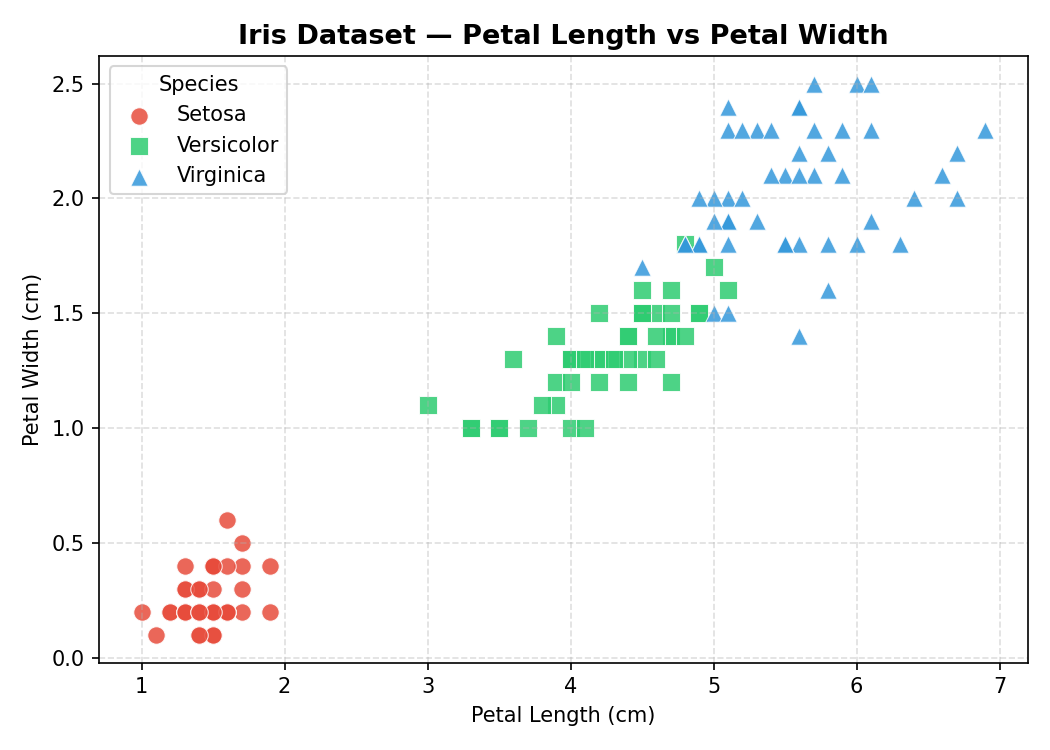
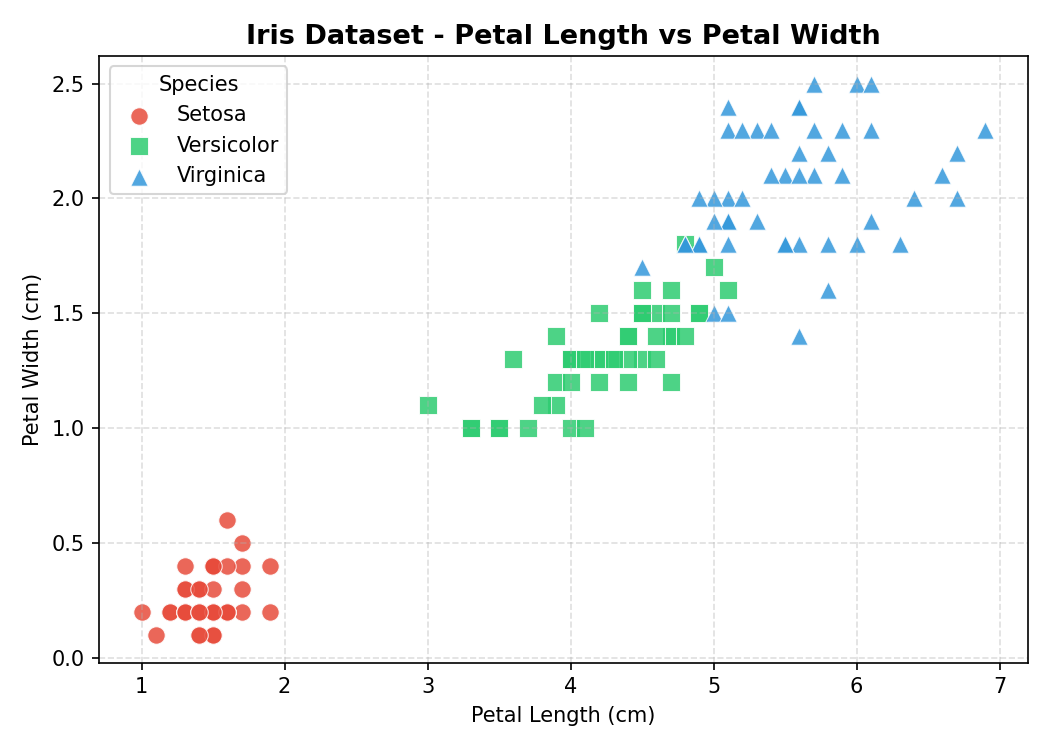
update dataset to Iris - csv and plot

Changed region(s): [[0.2133, 0.0307, 0.8533, 0.0613]]

diff --git a/create_dataset.py b/create_dataset.py
@@ -1,29 +1,28 @@
 # create_dataset.py
-# Exports the Iris dataset to CSV and creates a scatter plot colored by class.
+# Loads the Iris dataset from sklearn, exports it to CSV,
+# and creates a scatter plot of petal length vs petal width colored by species.
+# Consistent with model.py, PRD.md, REPORT.md and PLAN.md.
 
-import numpy as np
 import pandas as pd
 import matplotlib.pyplot as plt
 from sklearn.datasets import load_iris
 
 # ─── 1. Load the Iris dataset ────────────────────────────────────────────────
 iris = load_iris()
-X = iris.data
-y = iris.target
+X = iris.data        # shape (150, 4)
+y = iris.target      # 0=setosa, 1=versicolor, 2=virginica
 class_names = iris.target_names  # ['setosa', 'versicolor', 'virginica']
-feature_names = iris.feature_names
 
-# ─── 2. Export to CSV ────────────────────────────────────────────────────────
-# Build a DataFrame with feature columns + a species label column
-df = pd.DataFrame(X, columns=feature_names)
+# ─── 2. Save to CSV ───────────────────────────────────────────────────────────
+df = pd.DataFrame(X, columns=['sepal_length', 'sepal_width', 'petal_length', 'petal_width'])
 df['species'] = [class_names[label] for label in y]
 
 df.to_csv('dataset.csv', index=False)
 print(f"Saved: dataset.csv  ({len(df)} rows, {len(df.columns)} columns)")
 
-# ─── 3. Scatter plot colored by class ────────────────────────────────────────
-# Plot petal length vs petal width — the most discriminative feature pair
-colors = ['#e74c3c', '#2ecc71', '#3498db']  # red, green, blue
+# ─── 3. Scatter plot: petal_length vs petal_width, colored by species ────────
+# Colors match the three classes used throughout the project
+colors  = ['#e74c3c', '#2ecc71', '#3498db']   # setosa=red, versicolor=green, virginica=blue
 markers = ['o', 's', '^']
 
 fig, ax = plt.subplots(figsize=(7, 5))
@@ -31,8 +30,8 @@ fig, ax = plt.subplots(figsize=(7, 5))
 for i, (cls, color, marker) in enumerate(zip(class_names, colors, markers)):
     mask = y == i
     ax.scatter(
-        X[mask, 2],   # petal length
-        X[mask, 3],   # petal width
+        df.loc[mask, 'petal_length'],
+        df.loc[mask, 'petal_width'],
         c=color,
         marker=marker,
         label=cls.capitalize(),
@@ -42,7 +41,7 @@ for i, (cls, color, marker) in enumerate(zip(class_names, colors, markers)):
         alpha=0.85
     )
 
-ax.set_title('Iris Dataset — Petal Length vs Petal Width', fontsize=13, fontweight='bold')
+ax.set_title('Iris Dataset - Petal Length vs Petal Width', fontsize=13, fontweight='bold')
 ax.set_xlabel('Petal Length (cm)')
 ax.set_ylabel('Petal Width (cm)')
 ax.legend(title='Species')
